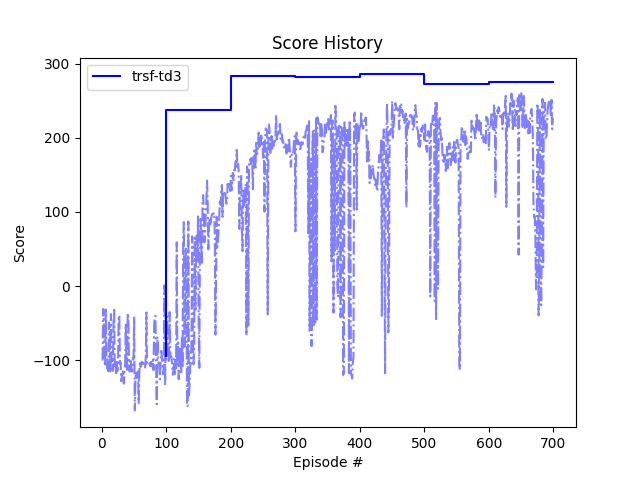
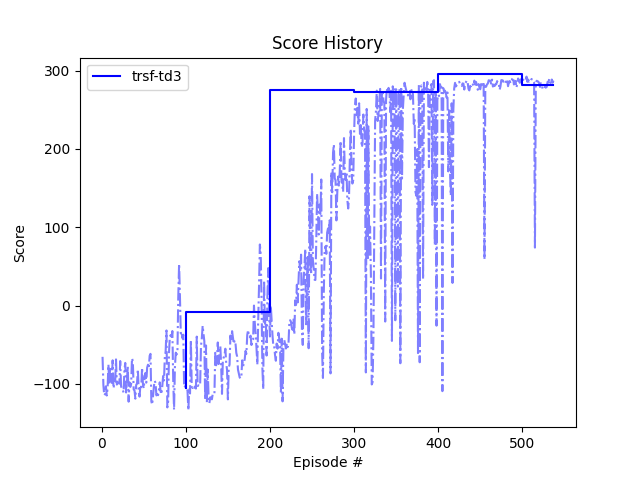
folder structure changed, transformer architecture changed, training logic small changes.

diff --git a/td3_agent.py b/td3_agent.py
@@ -125,18 +125,18 @@ class TD3Agent():
         for target_param, local_param in zip(target_model.parameters(), local_model.parameters()):
             target_param.data.copy_(local_param.data)
 
-    def save_ckpt(self, model_type, prefix='last'):
-        actor_file = os.path.join("models", self.rl_type, "_".join([prefix, model_type, "actor.pth"]))
-        critic_1_file = os.path.join("models", self.rl_type, "_".join([prefix, model_type, "critic_1.pth"]))
-        critic_2_file = os.path.join("models", self.rl_type, "_".join([prefix, model_type, "critic_2.pth"]))
+    def save_ckpt(self, model_type, env_type, prefix='last'):
+        actor_file = os.path.join("models", self.rl_type, env_type, "_".join([prefix, model_type, "actor.pth"]))
+        critic_1_file = os.path.join("models", self.rl_type, env_type, "_".join([prefix, model_type, "critic_1.pth"]))
+        critic_2_file = os.path.join("models", self.rl_type, env_type, "_".join([prefix, model_type, "critic_2.pth"]))
         torch.save(self.train_actor.state_dict(), actor_file)
         torch.save(self.train_critic_1.state_dict(), critic_1_file)
         torch.save(self.train_critic_2.state_dict(), critic_2_file)
 
-    def load_ckpt(self, model_type, prefix='last'):
-        actor_file = os.path.join("models", "td3", "_".join([prefix, model_type, "actor.pth"]))
-        critic_1_file = os.path.join("models", "td3", "_".join([prefix, model_type, "critic_1.pth"]))
-        critic_2_file = os.path.join("models", "td3", "_".join([prefix, model_type, "critic_2.pth"]))
+    def load_ckpt(self, model_type, env_type, prefix='last'):
+        actor_file = os.path.join("models", "td3", env_type, "_".join([prefix, model_type, "actor.pth"]))
+        critic_1_file = os.path.join("models", "td3", env_type, "_".join([prefix, model_type, "critic_1.pth"]))
+        critic_2_file = os.path.join("models", "td3", env_type, "_".join([prefix, model_type, "critic_2.pth"]))
         try:
             self.train_actor.load_state_dict(torch.load(actor_file, map_location=self.device))
         except:

diff --git a/main_script.py b/main_script.py
@@ -21,6 +21,7 @@ parser.add_argument("-r", "--rl_type", type=str, choices=['ddpg', 'td3'], defaul
 parser.add_argument("-l", "--lr", type=float, default=3e-4, help='Learning Rate')
 parser.add_argument("-w", "--wd", type=float, default=1e-6, help='Weight Decay')
 parser.add_argument("-c", "--ckpt", type=str, default='ep100', help='checkpoint to start with')
+parser.add_argument("-x", "--explore_episode", type=int, default=50, help='number of exploration steps')
 
 args = parser.parse_args()
 
@@ -52,7 +53,7 @@ elif args.rl_type=='td3':
 else:
     print('Wrong learning algorithm type!'); exit(0);
 
-agent.load_ckpt(args.model_type, args.ckpt)
+agent.load_ckpt(args.model_type, args.env, args.ckpt)
 
 print("Action dimension : ",env.action_space.shape)
 print("State  dimension : ",env.observation_space.shape)
@@ -61,7 +62,7 @@ print("State sample  : \n ",env.reset())
 
 if args.flag == 'train':
     agent.train_mode()   
-    scores, test_scores = train(env, agent, model_type=args.model_type)
+    scores, test_scores = train(env, agent, model_type=args.model_type, env_type=args.env, explore_episode=args.explore_episode)
     fig = plt.figure()
     ax = fig.add_subplot(111)
     ax.plot(scores[0],scores[1],'b-.', alpha=.5)
@@ -73,8 +74,8 @@ if args.flag == 'train':
     fig.savefig(os.path.join("results", args.model_type+'-'+args.rl_type+'.png'))
     fig.show()
     env.close()
-    np.savetxt(os.path.join("results", "train"+"-"+args.model_type+'-'+args.rl_type+'.txt'), scores, fmt="%.6e")
-    np.savetxt(os.path.join("results", "test"+"-"+args.model_type+'-'+args.rl_type+'.txt'), test_scores, fmt="%.6e")
+    np.savetxt(os.path.join("results", "train"+"-"+args.env+'-'+args.model_type+'-'+args.rl_type+'.txt'), scores, fmt="%.6e")
+    np.savetxt(os.path.join("results", "test"+"-"+args.env+'-'+args.model_type+'-'+args.rl_type+'.txt'), test_scores, fmt="%.6e")
 
 elif args.flag == 'test':
     #agent.freeze_networks()

diff --git a/ddpg_agent.py b/ddpg_agent.py
@@ -95,15 +95,15 @@ class DDPGAgent():
         for target_param, local_param in zip(target_model.parameters(), local_model.parameters()):
             target_param.data.copy_(local_param.data)
 
-    def save_ckpt(self, model_type, prefix='last'):
-        actor_file = os.path.join("models", self.rl_type, "_".join([prefix, model_type, "actor.pth"]))
-        critic_file = os.path.join("models", self.rl_type, "_".join([prefix, model_type, "critic.pth"]))
+    def save_ckpt(self, model_type, env_type, prefix='last'):
+        actor_file = os.path.join("models", self.rl_type, env_type, "_".join([prefix, model_type, "actor.pth"]))
+        critic_file = os.path.join("models", self.rl_type, env_type, "_".join([prefix, model_type, "critic.pth"]))
         torch.save(self.train_actor.state_dict(), actor_file)
         torch.save(self.train_critic.state_dict(), critic_file)
 
-    def load_ckpt(self, model_type, prefix='last'):
-        actor_file = os.path.join("models", "ddpg", "_".join([prefix, model_type, "actor.pth"]))
-        critic_file = os.path.join("models", "ddpg", "_".join([prefix, model_type, "critic.pth"]))
+    def load_ckpt(self, model_type, env_type, prefix='last'):
+        actor_file = os.path.join("models", "ddpg", env_type, "_".join([prefix, model_type, "actor.pth"]))
+        critic_file = os.path.join("models", "ddpg", env_type, "_".join([prefix, model_type, "critic.pth"]))
         try:
             self.train_actor.load_state_dict(torch.load(actor_file, map_location=self.device))
         except:

diff --git a/fcn_train_test.py b/fcn_train_test.py
@@ -5,7 +5,7 @@ import os
 import matplotlib.pyplot as plt
 from collections import deque
 
-def train(env, agent, n_episodes=3000, model_type='unk', score_limit=280.0, explore_episode=25, test_f=100):
+def train(env, agent, n_episodes=3000, model_type='unk', env_type='unk', score_limit=280.0, explore_episode=50, test_f=100):
     scores_deque = deque(maxlen=100)
     scores = []
     test_scores = []
@@ -40,7 +40,7 @@ def train(env, agent, n_episodes=3000, model_type='unk', score_limit=280.0, expl
             agent.eval_mode() # test in eval mode.
             test_score = test(env, agent, render=False)
             test_scores.append((i_episode, test_score))
-            agent.save_ckpt(model_type, 'ep'+str(int(i_episode)))
+            agent.save_ckpt(model_type, env_type,'ep'+str(int(i_episode)))
             if avg_score_100>score_limit:
                 break
             agent.train_mode() # when the test done, come back to train mode.

diff --git a/archs/trsf_models.py b/archs/trsf_models.py
@@ -69,7 +69,7 @@ class Critic(nn.Module):
         self.action_dim = action_dim
         
         self.state_encoder = StableTransformerEncoder(d_in=self.state_dim,
-            d_model=128, nhead=8, dim_feedforward=256, dropout=0.0)
+            d_model=128, nhead=4, dim_feedforward=256, dropout=0.0)
         self.action_encoder = nn.Sequential(nn.Linear(self.action_dim, 128), nn.GELU()) # 
         nn.init.xavier_uniform_(self.action_encoder[0].weight, gain=nn.init.calculate_gain('relu')) # 
 
@@ -113,7 +113,7 @@ class Actor(nn.Module):
         self.action_dim = action_dim
         
         self.state_encoder = StableTransformerEncoder(d_in=self.state_dim,
-            d_model=128, nhead=8, dim_feedforward=256, dropout=0.0)
+            d_model=128, nhead=4, dim_feedforward=256, dropout=0.0)
 
         self.fc = nn.Linear(128,action_dim)
         nn.init.xavier_uniform_(self.fc.weight, gain=nn.init.calculate_gain('tanh'))

diff --git a/archs/utils/stable_transformer.py b/archs/utils/stable_transformer.py
@@ -19,14 +19,10 @@ class PositionalEncoding(nn.Module):
         pe[:, 1::2] = torch.cos(position * div_term)
         pe = pe.unsqueeze(0)
         self.register_buffer('pe', pe)
-        if ratio is not None:
-            self.ratio = torch.nn.Parameter(torch.tensor(ratio, dtype=torch.float), requires_grad=True)
-        else:
-            self.ratio = torch.nn.Parameter(torch.tensor(1.0, dtype=torch.float), requires_grad=False)
 
     def forward(self, x):
-        x = x + torch.flip(self.ratio*self.pe[:, :x.size(1), :], dims=[1]) / self.embedding_scale
-        #x = x + self.pe[:, :x.size(1), :]
+        x = x + torch.flip(self.pe[:, :x.size(1), :], dims=[1]) / self.embedding_scale
+        #x = x + self.pe[:, :x.size(1), :] / self.embedding_scale*
         return x
 
 class LearnablePositionalEncoding(nn.Module):
